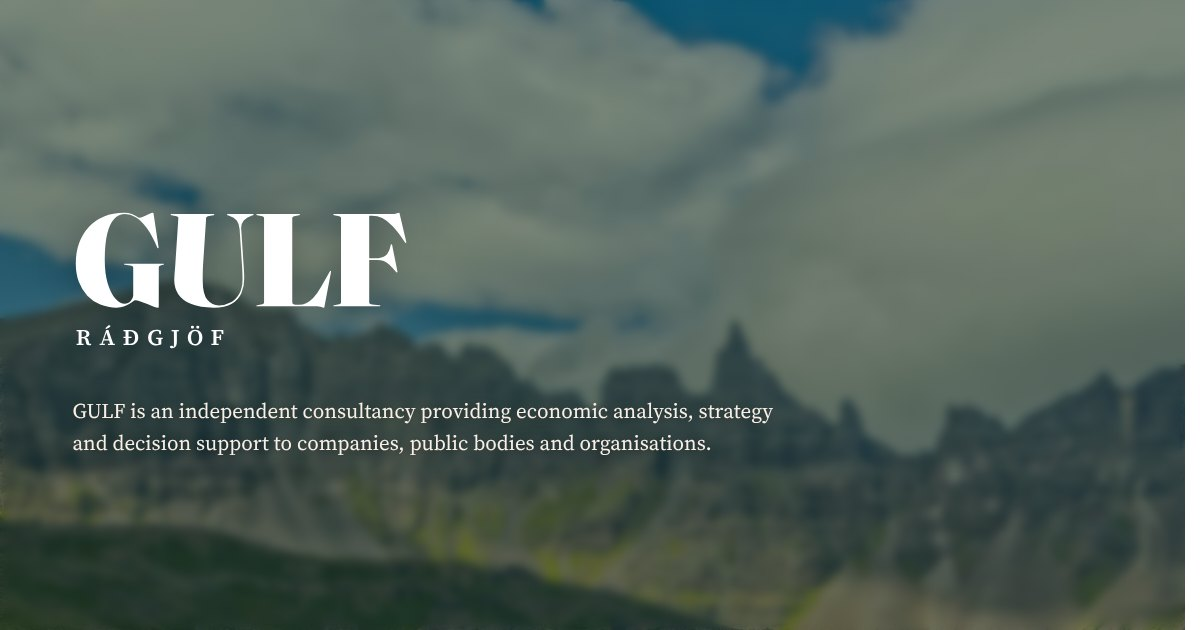
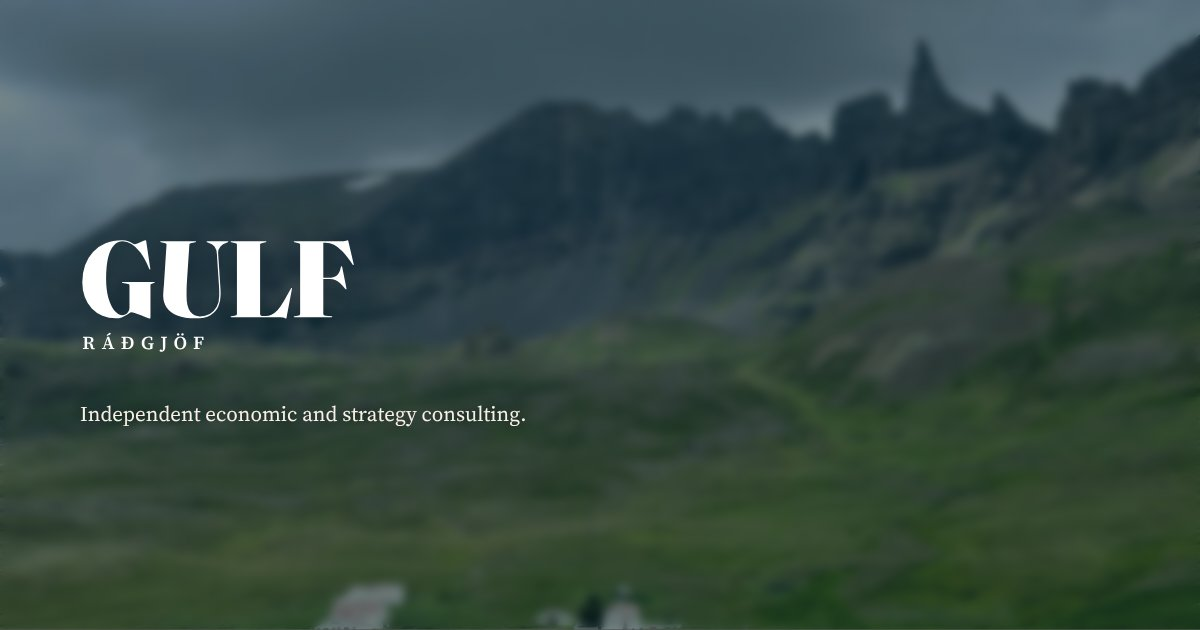
Replace the iStock hero photo with a free Unsplash photo of Hraundrangi
Claude-Session: https://claude.ai/code/session_01NixXCr8GJVpwBmeYcW25we

diff --git a/public/assets/css/site.css b/public/assets/css/site.css
@@ -367,7 +367,7 @@ body > main {
   position: relative;
   overflow: hidden;
   color: rgb(255, 255, 255);
-  background: url("../img/hero.jpg") center 78% / cover no-repeat rgb(16, 12, 8);
+  background: url("../img/hero-hraun.jpg") 72% 28% / cover no-repeat rgb(16, 12, 8);
 }
 .hero.solo::before {
   content: "";

diff --git a/public/index.html b/public/index.html
@@ -29,7 +29,7 @@
   document.documentElement.lang=detect();
 })();
 </script>
-<link rel="stylesheet" href="/assets/css/site.css?v=20">
+<link rel="stylesheet" href="/assets/css/site.css?v=21">
 <script src="/assets/js/site.js?v=19" defer></script>
 </head>
 <body>

diff --git a/README.md b/README.md
@@ -55,3 +55,5 @@ are uploaded as preview versions with their own workers.dev URL.
 
 `public/_headers` sends `X-Robots-Tag: noindex` on test.gulf.is, so the test
 domain stays out of search engines.
+
+Hero photo: Hraundrangi above Hraun in Öxnadalur, by Freysteinn G. Jonsson on Unsplash (Unsplash License): https://unsplash.com/photos/CaWUHJASMBs
